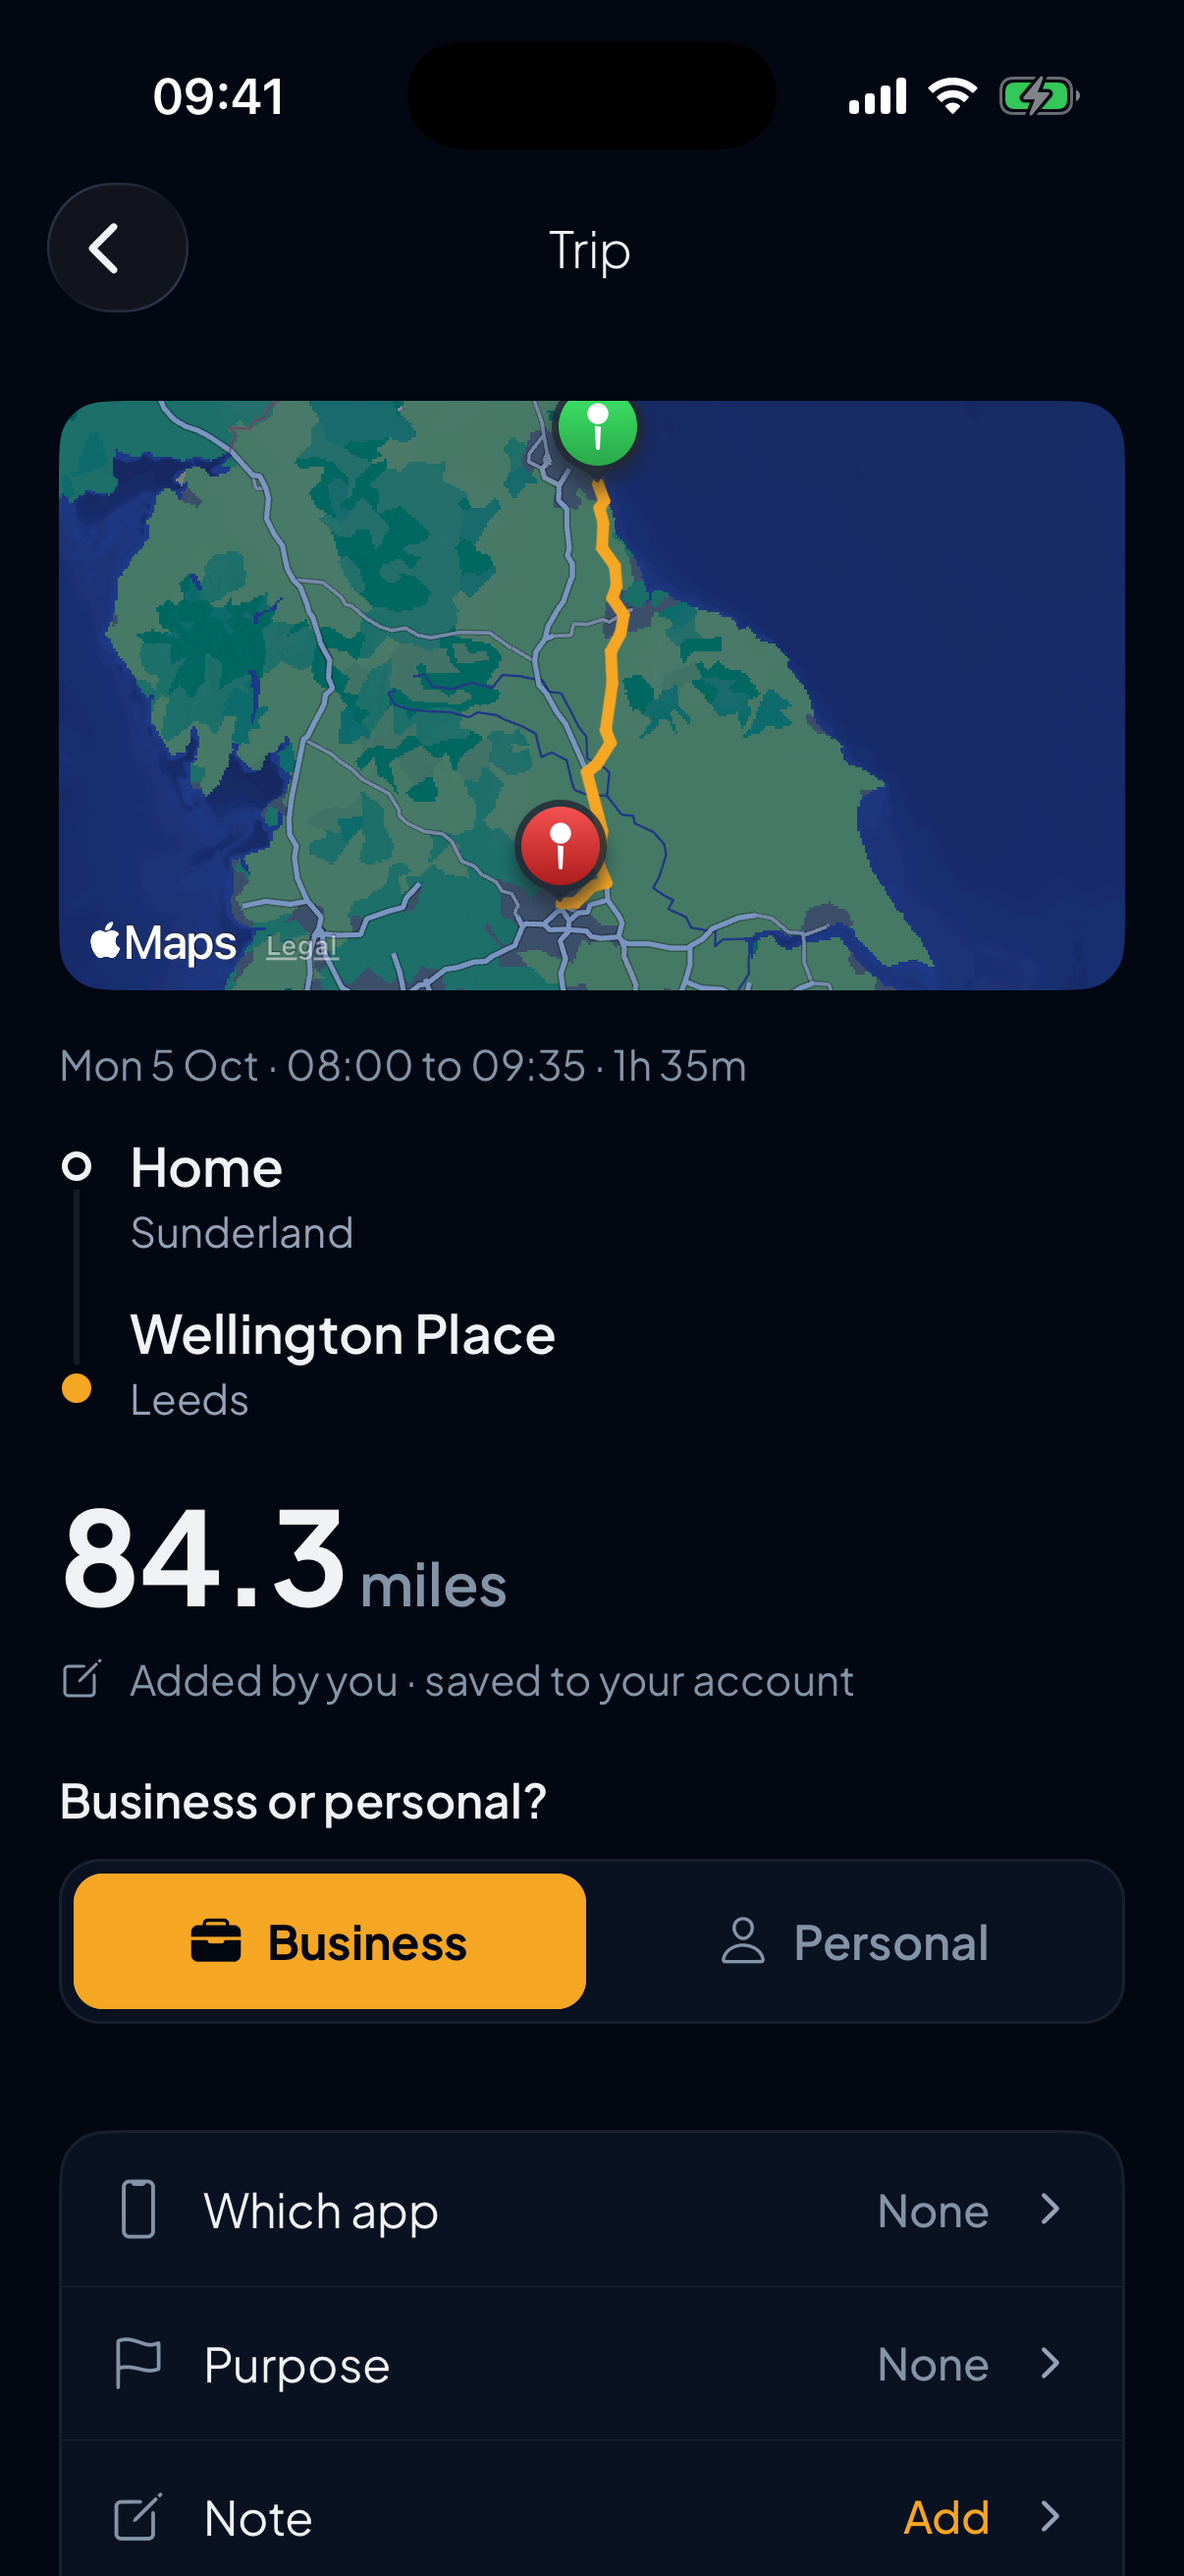
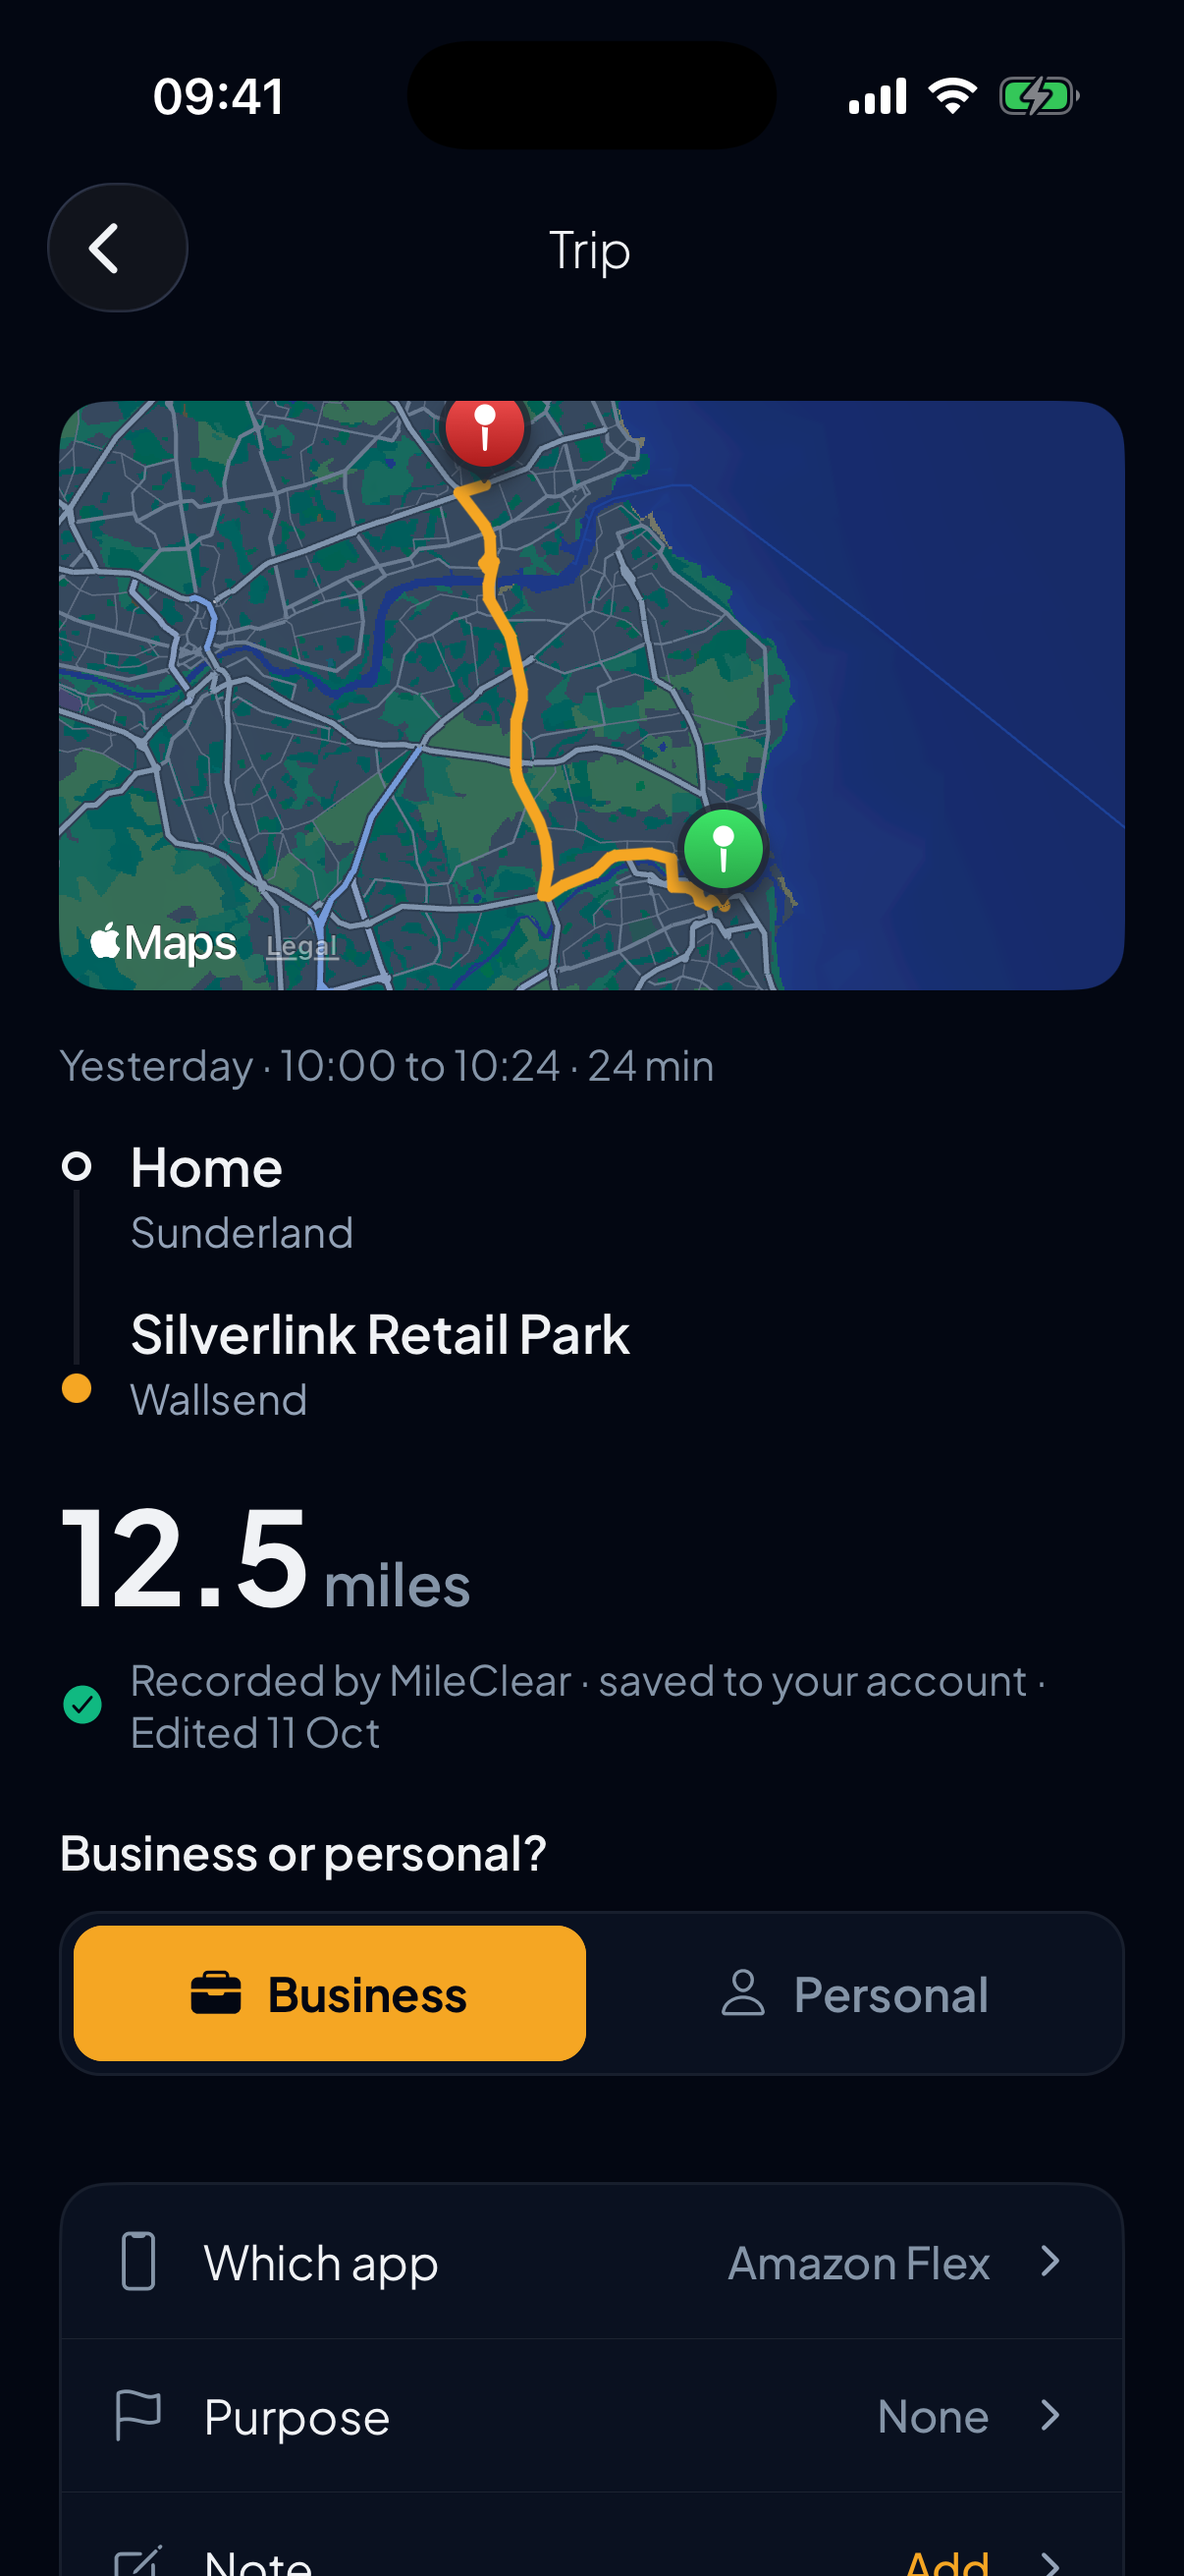
1.3.13 screenshots recaptured from Demo's recorded trips: slot 1 is now the real To sort list (a route group and single trips with their Business and Personal buttons), the swipe, trip and missed-drives slots use recorded trips, More is refreshed, and the Play feature graphic shows more of the scree

diff --git a/apps/web/src/components/screenshot/slots.ts b/apps/web/src/components/screenshot/slots.ts
@@ -582,21 +582,22 @@ const U = "/screenshot-source/iphone-1313";
 
 export const UPDATE_SLOTS: ScreenshotSlot[] = [
   {
-    // Demo has nothing in To sort, so this is the Business filter: same
-    // route-first rows, day miles and the All / To sort / Business /
-    // Personal bar.
+    // To sort, scrolled to its "Business or personal?" list: a route
+    // group (two trips on one route) and single trips, each with its own
+    // Business / Personal buttons. Demo's recorded trips, 7 to 11 Oct.
     slot: 1,
     slug: "u-trips",
     set: "update",
     eyebrow: "Mileage tracker for the UK",
     headline: "Every mile.\nSorted in a swipe.",
     subline: "MileClear records your drives on its own. You just sort them.",
-    iphoneSrc: `${U}/trips-business.png`,
+    iphoneSrc: `${U}/trips-tosort.png`,
     accent: "amber",
     layout: "stack",
   },
   {
-    // A real swipe, held open, with the Business button showing. The
+    // A real swipe on a recorded Personal trip, held open, with the
+    // Business button showing. The
     // "Marked Business · Undo" note only appears once a trip is sorted.
     slot: 2,
     slug: "u-swipe",

diff --git a/apps/web/src/components/screenshot/PlayFrame.tsx b/apps/web/src/components/screenshot/PlayFrame.tsx
@@ -264,7 +264,7 @@ export function PlayFeatureGraphic({ src }: { src: string }) {
       </div>
 
       <div style={{ position: "absolute", left: 622, top: 52, transform: "rotate(-5deg)", transformOrigin: "center top", zIndex: 1 }}>
-        <NeutralPhone src={src} width={280} focus={0.5} glow="rgba(234,179,8,0.35)" />
+        <NeutralPhone src={src} width={280} focus={0.62} glow="rgba(234,179,8,0.35)" />
       </div>
     </div>
   );
